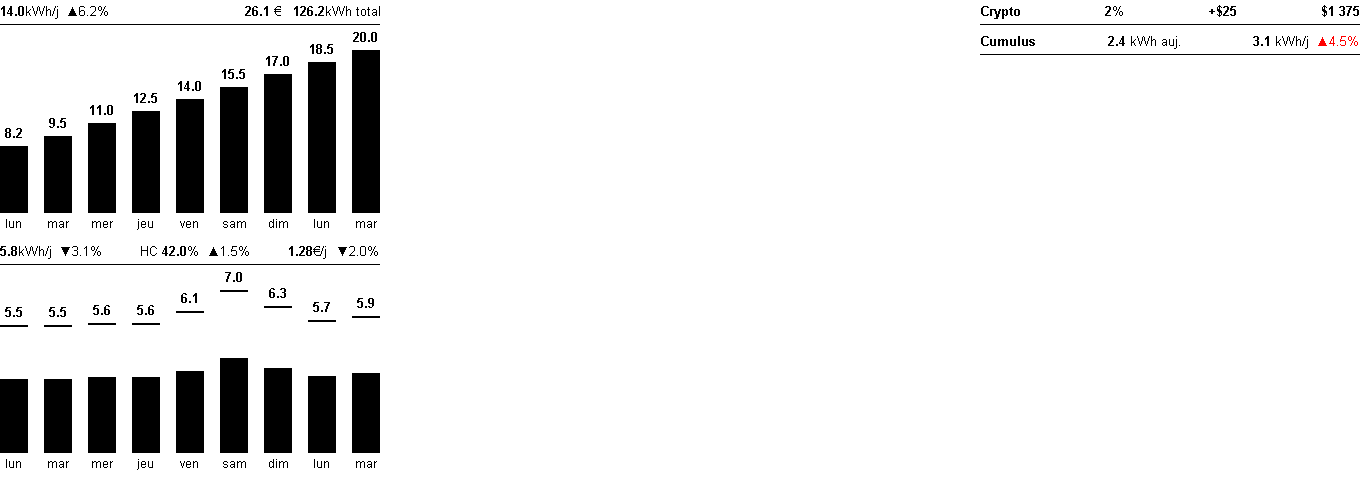
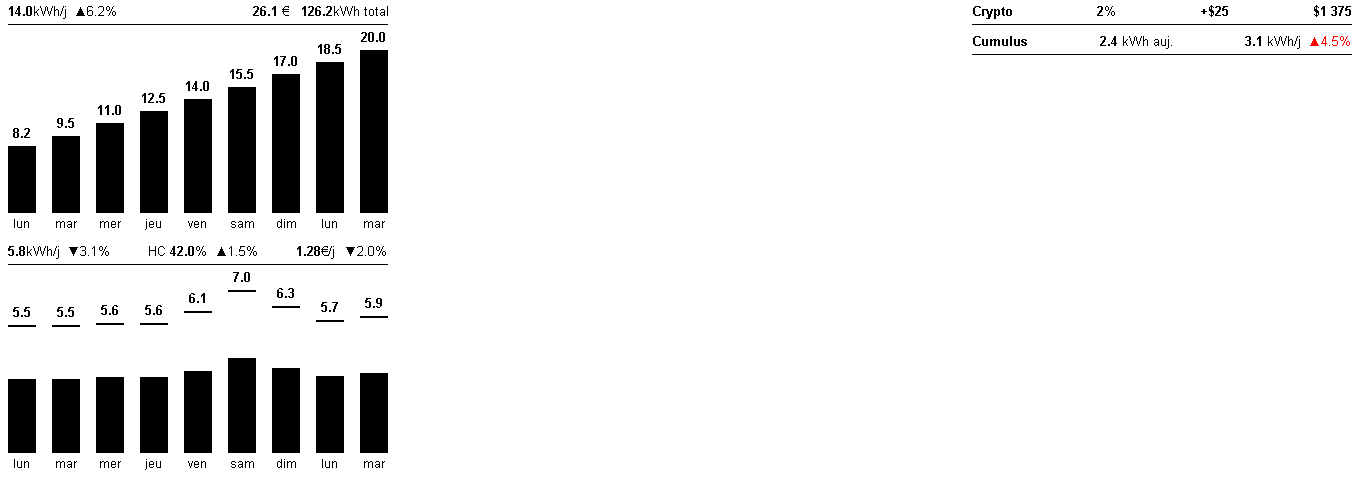
style(renderer): set horizontal chart margins to 8px

diff --git a/renderer.py b/renderer.py
@@ -17,7 +17,7 @@ FONT_BOLD_PATH = os.path.join(_FONT_DIR, "Arial-Bold.ttf")
 BLACK = 0
 RED = (255, 0, 0)
 
-CHART_LEFT = 0
+CHART_LEFT = 8
 CHART_BOTTOM = 12
 BAR_WIDTH = 28
 BAR_GAP = 16
